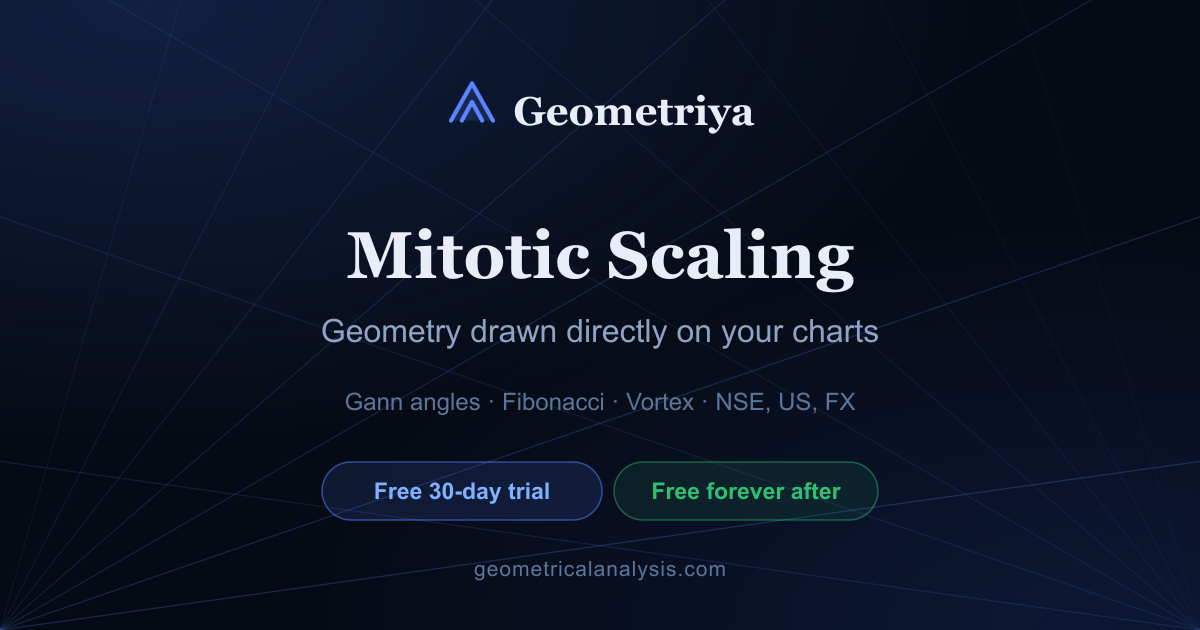
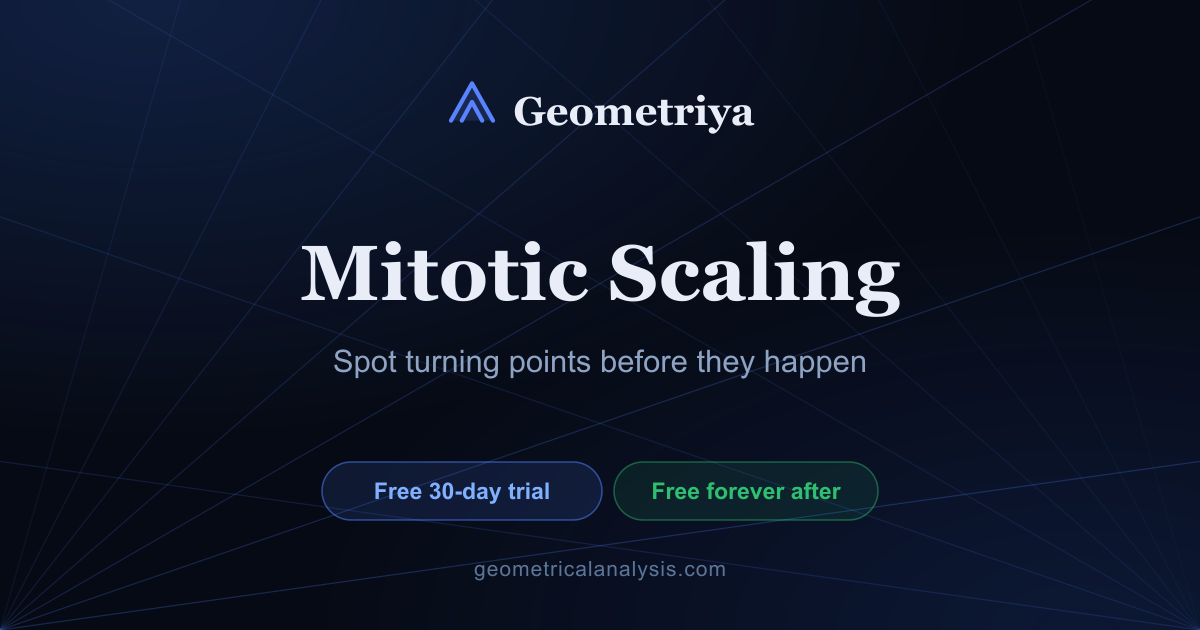
Lead the link preview with Mitotic Scaling, not Gann and Fibonacci
The preview description read "Gann, Fibonacci, Vortex …" — a list of things
every charting package already has, which gives a stranger no reason to look.
Mitotic Scaling is the part nobody else has, so it leads everywhere now: the
og:description, the card, and the search-result description.

og:title is shortened and no longer mirrors <title>. WhatsApp's compact
preview allows roughly two short lines and truncated the old one to
"Geometriya — Geometric Market An…", which wasted the most prominent line on
a half-finished phrase.

The card drops the feature list and scales what remains up. WhatsApp uses the
large card layout only when the URL is essentially the whole message; put 291
characters of pitch in front of it, as the referral message does, and it
falls back to a ~130px thumbnail instead. So the description carries the
weight in practice, and the image has to survive being tiny. Checked by
rendering that thumbnail rather than trusting the full-size version — the
first attempt at 86px looked right full size and clipped the M and the g
once cropped to the safe square.

The claim about turning points is the wording as supplied.

Changed region(s): [[0.2467, 0.3619, 0.7708, 0.6635], [0.2775, 0.6333, 0.4008, 0.6635], [0.4317, 0.6333, 0.4933, 0.6635]]

diff --git a/index.html b/index.html
@@ -4,7 +4,7 @@
     <meta charset="UTF-8" />
     <meta name="viewport" content="width=device-width, initial-scale=1.0" />
     <title>Geometriya — Geometric Market Analysis</title>
-    <meta name="description" content="A charting platform built entirely on geometric analysis — Gann, Fibonacci, Vortex, and Mitotic Scaling." />
+    <meta name="description" content="A charting platform built on Mitotic Scaling — a unique method that draws geometry directly on your charts to spot turning points before they happen." />
 
     <!-- ── Link preview (Open Graph) ──
          WhatsApp, Telegram, Facebook and LinkedIn all read these; without
@@ -20,8 +20,14 @@
     <meta property="og:type" content="website" />
     <meta property="og:site_name" content="Geometriya" />
     <meta property="og:url" content="https://www.geometricalanalysis.com/" />
-    <meta property="og:title" content="Geometriya — Geometric Market Analysis" />
-    <meta property="og:description" content="Gann, Fibonacci, Vortex and Mitotic Scaling tools for NSE stocks. Start a free 30-day trial." />
+    <!-- og:title is deliberately shorter than <title>. WhatsApp's compact
+         preview gives it about two short lines and truncates the rest — the
+         previous one arrived as "Geometriya — Geometric Market An…".
+         The description leads with Mitotic Scaling because that is the thing
+         nobody else has. Gann and Fibonacci are in every charting package and
+         say nothing about why this one is different. -->
+    <meta property="og:title" content="Geometriya — Mitotic Scaling" />
+    <meta property="og:description" content="A unique method that draws geometry directly on your charts to spot turning points before they happen. Free 30-day trial, then free forever." />
     <meta property="og:image" content="https://www.geometricalanalysis.com/og-card.png" />
     <meta property="og:image:width" content="1200" />
     <meta property="og:image:height" content="630" />
@@ -30,8 +36,8 @@
 
     <!-- X/Twitter ignores Open Graph for card type, so it needs its own. -->
     <meta name="twitter:card" content="summary_large_image" />
-    <meta name="twitter:title" content="Geometriya — Geometric Market Analysis" />
-    <meta name="twitter:description" content="Gann, Fibonacci, Vortex and Mitotic Scaling tools for NSE stocks. Start a free 30-day trial." />
+    <meta name="twitter:title" content="Geometriya — Mitotic Scaling" />
+    <meta name="twitter:description" content="A unique method that draws geometry directly on your charts to spot turning points before they happen. Free 30-day trial, then free forever." />
     <meta name="twitter:image" content="https://www.geometricalanalysis.com/og-card.png" />
 
     <link rel="icon" type="image/x-icon" href="/favicon.ico" />
